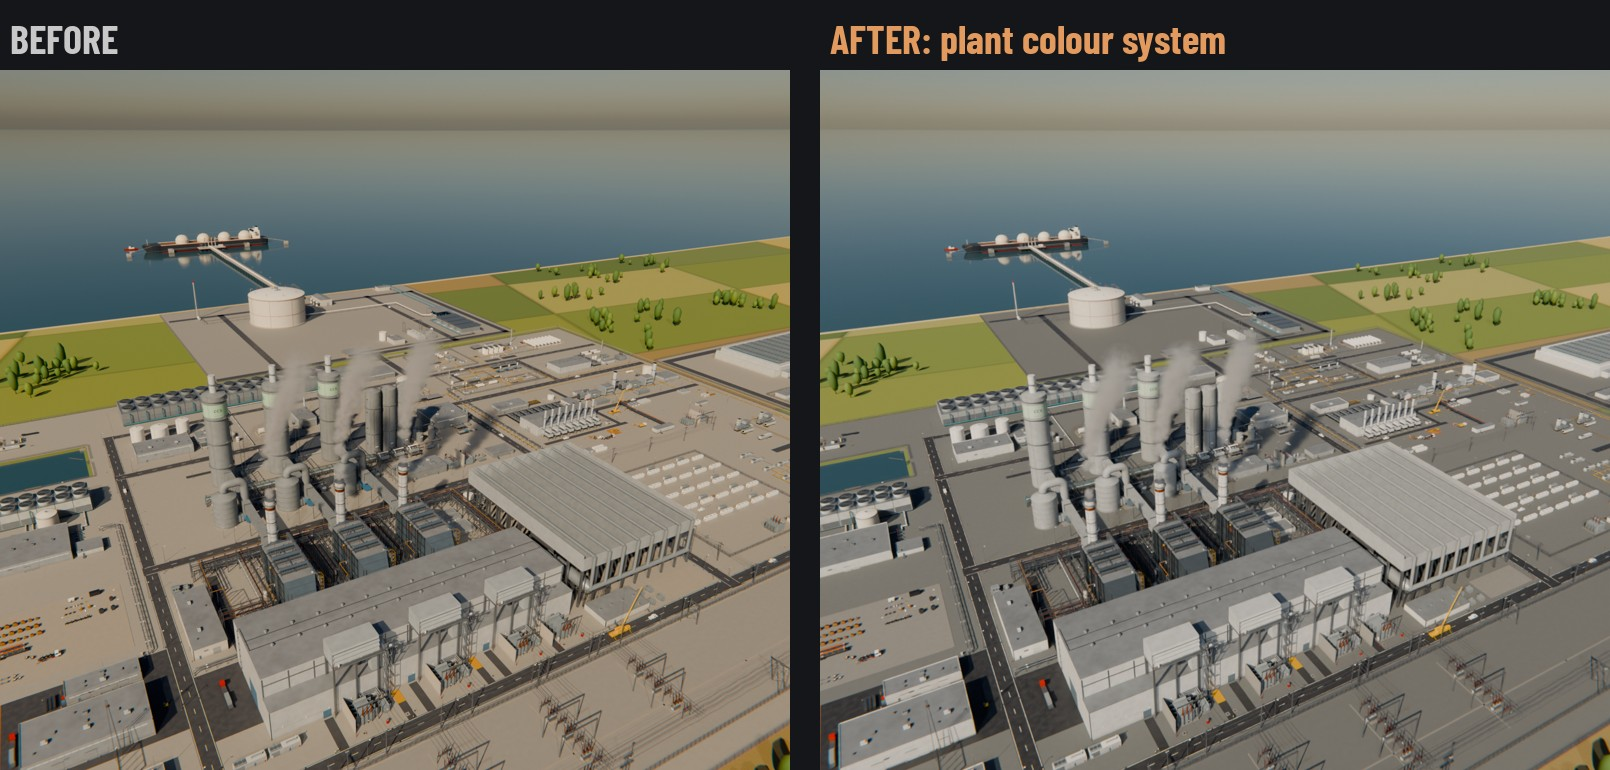
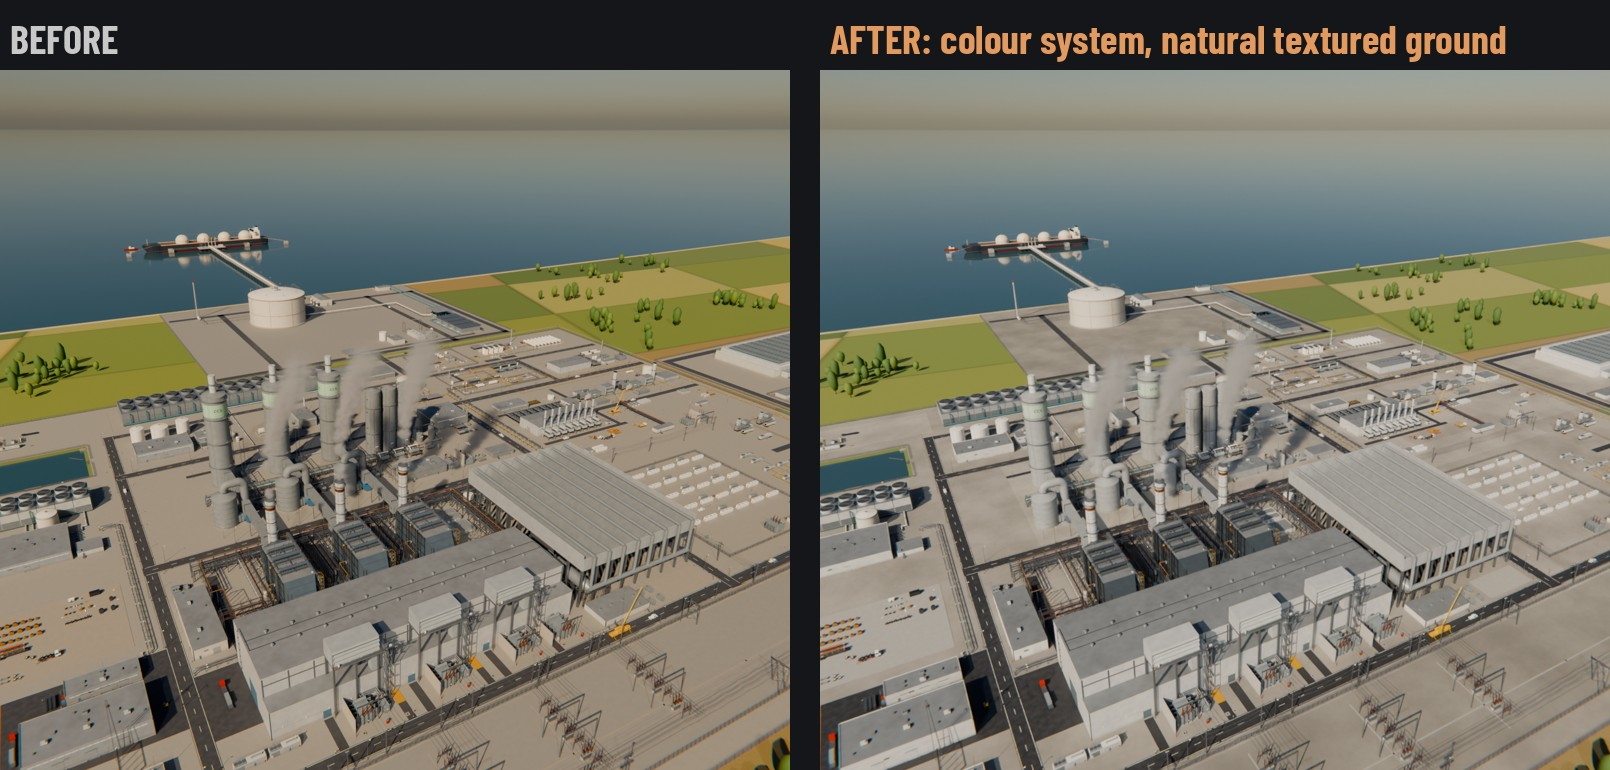
Colour system: lighter natural crushed-stone ground with patch and speckle variation; lighter concrete pads
Claude-Session: https://claude.ai/code/session_01EHxHxmYsdzpzXyCp3b43B1

Changed region(s): [[0.4969, 0.374, 1.0, 1.0], [0.5901, 0.0312, 0.9627, 0.0935], [0.4969, 0.6857, 0.528, 0.7169]]

diff --git a/plant/blender/pro_look.py b/plant/blender/pro_look.py
@@ -113,10 +113,10 @@ LOOK = {
 # only on the hero; CCS and everything else quiet; colour only on small safety items. No warm cast anywhere.
 COLOUR_SYSTEM = {
     # site
-    "ground": ("gravel", "#5e6262", .95, 0), "gravel": ("gravel", "#5a5e5e", .95, 0),
-    "gravel_yard": ("gravel", "#5e6262", .95, 0), "corridor": ("gravel", "#5e6262", .95, 0),
+    "ground": ("gravel", "#8a8882", .95, 0), "gravel": ("gravel", "#7d7c76", .95, 0),
+    "gravel_yard": ("gravel", "#94928c", .95, 0), "corridor": ("gravel", "#8e8c86", .95, 0),
     "future": ("gravel", "#a7aaa9", .95, 0), "road": ("asphalt", "#2e3032", .9, 0),
-    "pad": ("concrete", "#8c8d8a", .85, 0), "concrete": ("concrete", "#898a87", .85, 0),
+    "pad": ("concrete", "#b1b2ae", .85, 0), "concrete": ("concrete", "#adaeaa", .85, 0),
     "basement": ("concrete", "#94958f", .9, 0),
     # buildings: off-white walls, mid-grey roofs
     "building": ("clad", "#dcdedb", .55, .05), "rollup": ("clad", "#d2d5d4", .5, .2),
@@ -255,6 +255,34 @@ def material(key):
         L.new(base_out, stain.inputs[6])
         stain.inputs[7].default_value = (.5, .49, .46, 1)
         base_out = stain.outputs[2]
+    if kind == "gravel":
+        # crushed stone: broad patches (wheel paths, fresher stone, damp), then fine stone-to-stone speckle
+        gp = _node(nt, "ShaderNodeTexNoise", (-800, 1500), Scale=.02, Detail=6.0, Roughness=.6)
+        L.new(geo.outputs["Position"], gp.inputs["Vector"])
+        gpr = _node(nt, "ShaderNodeMapRange", (-600, 1500))
+        gpr.inputs["From Min"].default_value, gpr.inputs["From Max"].default_value = .35, .65
+        gpr.inputs["To Min"].default_value, gpr.inputs["To Max"].default_value = .78, 1.18
+        L.new(gp.outputs["Fac"], gpr.inputs["Value"])
+        gs = _node(nt, "ShaderNodeTexVoronoi", (-800, 1700), Scale=55.0, Randomness=1.0)
+        gs.feature = "F1"
+        L.new(geo.outputs["Position"], gs.inputs["Vector"])
+        gsr = _node(nt, "ShaderNodeMapRange", (-600, 1700))
+        gsr.inputs["To Min"].default_value, gsr.inputs["To Max"].default_value = .9, 1.08
+        L.new(gs.outputs["Color"], gsr.inputs["Value"])
+        gm = _node(nt, "ShaderNodeMath", (-400, 1600))
+        gm.operation = "MULTIPLY"
+        L.new(gpr.outputs["Result"], gm.inputs[0])
+        L.new(gsr.outputs["Result"], gm.inputs[1])
+        gc = _node(nt, "ShaderNodeCombineColor", (-250, 1600))
+        for ch in ("Red", "Green", "Blue"):
+            L.new(gm.outputs[0], gc.inputs[ch])
+        gmix = _node(nt, "ShaderNodeMix", (-100, 1400))
+        gmix.data_type = "RGBA"
+        gmix.blend_type = "MULTIPLY"
+        gmix.inputs["Factor"].default_value = 1
+        L.new(base_out, gmix.inputs[6])
+        L.new(gc.outputs[0], gmix.inputs[7])
+        base_out = gmix.outputs[2]
     if kind in ("clad", "fins", "roofing"):
         pv = _node(nt, "ShaderNodeTexVoronoi", (-800, 1200), Scale=.25, Randomness=1.0)
         L.new(geo.outputs["Position"], pv.inputs["Vector"])
